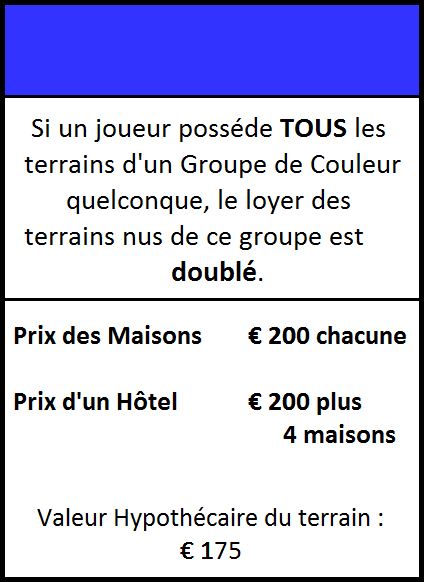
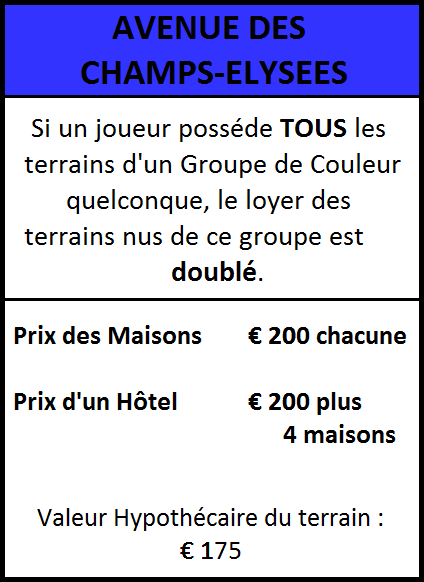
Ajout de toutes les cases "maisons" + toute petite modif dans le css
modif css :
bordure du tableau : 4px -> 3px
bordure des td : 3px -> 2px

Changed region(s): [[0.184, 0.0, 0.8278, 0.1546]]

diff --git a/monopoly/stylesheet.css b/monopoly/stylesheet.css
@@ -2,12 +2,12 @@
 DEBUT DU CSS DU TABLEAU
 */
 table{
-  border: 4px solid #000;
+  border: 3px solid #000;
   border-collapse: collapse;
   background-color: #eeffcc;
 }
 td{
-  border: 3px solid #000;
+  border: 2px solid #000;
   width: 80px;
   height: 80px;
 }

diff --git a/monopoly/index.php b/monopoly/index.php
@@ -104,9 +104,9 @@
       <!-- PREMIERE ET DEUXIEME COLONNE -->
       <tr>
         <!-- CASE 2 DE LA LIGNE DE GAUCHE -->
-        <td class="relative" onclick="afficherPropriete('8.2')">
+        <td class="text_centrer relative" onclick="afficherPropriete('8.2')">
           <!-- JOUEUR ICI : <img src="Image/joueur1.png" class="joueur1 absolute" alt="J1" />-->
-          2
+          <p class="rien">RUE DE LA PAIX</p><p></p><p class="rien">400 €</p>
         </td>
         <td class="maison8"></td>
         <!-- CASE CENTRALE -->
@@ -136,9 +136,9 @@
 
       <tr>
         <!-- CASE 4 DE LA LIGNE DE GAUCHE -->
-        <td class="relative" onclick="afficherPropriete('8.1')">
+        <td class="text_centrer relative" onclick="afficherPropriete('8.1')">
           <!-- JOUEUR ICI : <img src="Image/joueur1.png" class="joueur1 absolute" alt="J1" />-->
-          4
+          <p class="rien">AVENUE DES CHAMPS-ELYSEES</p><p></p><p class="rien">350 €</p>
         </td>
         <td class="maison8"></td>
         <!-- CASE 4 DE LA LIGNE DE DROITE -->
@@ -178,9 +178,9 @@
 
       <tr>
         <!-- CASE 7 DE LA LIGNE DE GAUCHE -->
-        <td class="relative" onclick="afficherPropriete('7.3')">
+        <td class="text_centrer relative" onclick="afficherPropriete('7.3')">
           <!-- JOUEUR ICI : <img src="Image/joueur1.png" class="joueur1 absolute" alt="J1" />-->
-          7
+          <p class="rien">BOULEVARD DES CAPUCINES</p><p></p><p class="rien">320 €</p>
         </td>
         <td class="maison7"></td>
         <!-- CASE 7 DE LA LIGNE DE DROITE -->
@@ -206,9 +206,9 @@
 
       <tr>
         <!-- CASE 9 DE LA LIGNE DE GAUCHE -->
-        <td class="relative" onclick="afficherPropriete('7.2')">
+        <td class=" text_centrer relative" onclick="afficherPropriete('7.2')">
           <!-- JOUEUR ICI : <img src="Image/joueur1.png" class="joueur1 absolute" alt="J1" />-->
-          9
+          <p class="rien">AVENUE FOCH</p><p></p><p class="rien">300 €</p>
         </td>
         <td class="maison7"></td>
         <!-- CASE 9 DE LA LIGNE DE DROITE -->
@@ -221,9 +221,9 @@
 
       <tr>
         <!-- CASE 10 DE LA LIGNE DE GAUCHE -->
-        <td class="relative" onclick="afficherPropriete('7.1')">
+        <td class="text_centrer relative" onclick="afficherPropriete('7.1')">
           <!-- JOUEUR ICI : <img src="Image/joueur1.png" class="joueur1 absolute" alt="J1" />-->
-          10
+          <p class="rien">AVENUE DE BRETEUIL</p><p></p><p class="rien">300 €</p>
         </td>
         <td class="maison7"></td>
         <!-- CASE 10 DE LA LIGNE DE DROITE -->
@@ -276,34 +276,34 @@
       <!-- TOUJOURS TROISIEME LIGNE POUR LES COULEURS DES EMPLACEMENTS -->
       <tr class="Lbas">
         <!-- CASE 2 -->
-        <td class="relative" onclick="afficherPropriete('6.3')">
+        <td class="text_centrer relative" onclick="afficherPropriete('6.3')">
           <!-- JOUEUR ICI : <img src="Image/joueur1.png" class="joueur1 absolute" alt="J1" />-->
-          10
+          <p class="rien">RUE LA FAYETTE</p><p></p><p class="rien">280 €</p>
         </td>
         <!-- CASE 4 -->
-        <td class="relative" onclick="afficherPropriete('6.2')">
+        <td class="text_centrer relative" onclick="afficherPropriete('6.2')">
           <!-- JOUEUR ICI : <img src="Image/joueur1.png" class="joueur1 absolute" alt="J1" />-->
-          8
+          <p class="rien">PLACE DE LA BOURSE</p><p></p><p class="rien">260 €</p>
         </td>
         <!-- CASE 5 -->
-        <td class="relative" onclick="afficherPropriete('6.1')">
+        <td class="text_centrer relative" onclick="afficherPropriete('6.1')">
           <!-- JOUEUR ICI : <img src="Image/joueur1.png" class="joueur1 absolute" alt="J1" />-->
-          7
+          <p class="rien">FAUBOURG SAINT-HONORE</p><p></p><p class="rien">260 €</p>
         </td>
         <!-- CASE 7 -->
-        <td class="relative" onclick="afficherPropriete('5.3')">
+        <td class="text_centrer relative" onclick="afficherPropriete('5.3')">
           <!-- JOUEUR ICI : <img src="Image/joueur1.png" class="joueur1 absolute" alt="J1" />-->
-          5
+          <p class="rien">AVENUE HENRI-MARTIN</p><p></p><p class="rien">240 €</p>
         </td>
         <!-- CASE 8 -->
-        <td class="relative" onclick="afficherPropriete('5.2')">
+        <td class="text_centrer relative" onclick="afficherPropriete('5.2')">
           <!-- JOUEUR ICI : <img src="Image/joueur1.png" class="joueur1 absolute" alt="J1" />-->
-          4
+          <p class="rien">BOULEVARD MALESHERBES</p><p></p><p class="rien">220 €</p>
         </td>
         <!-- CASE 10 -->
-        <td class="relative" onclick="afficherPropriete('5.1')">
+        <td class="text_centrer relative" onclick="afficherPropriete('5.1')">
           <!-- JOUEUR ICI : <img src="Image/joueur1.png" class="joueur1 absolute" alt="J1" />-->
-          2
+          <p class="rien">AVENUE MATIGNON</p><p></p><p class="rien">220 €</p>
         </td>
 
       </tr>
